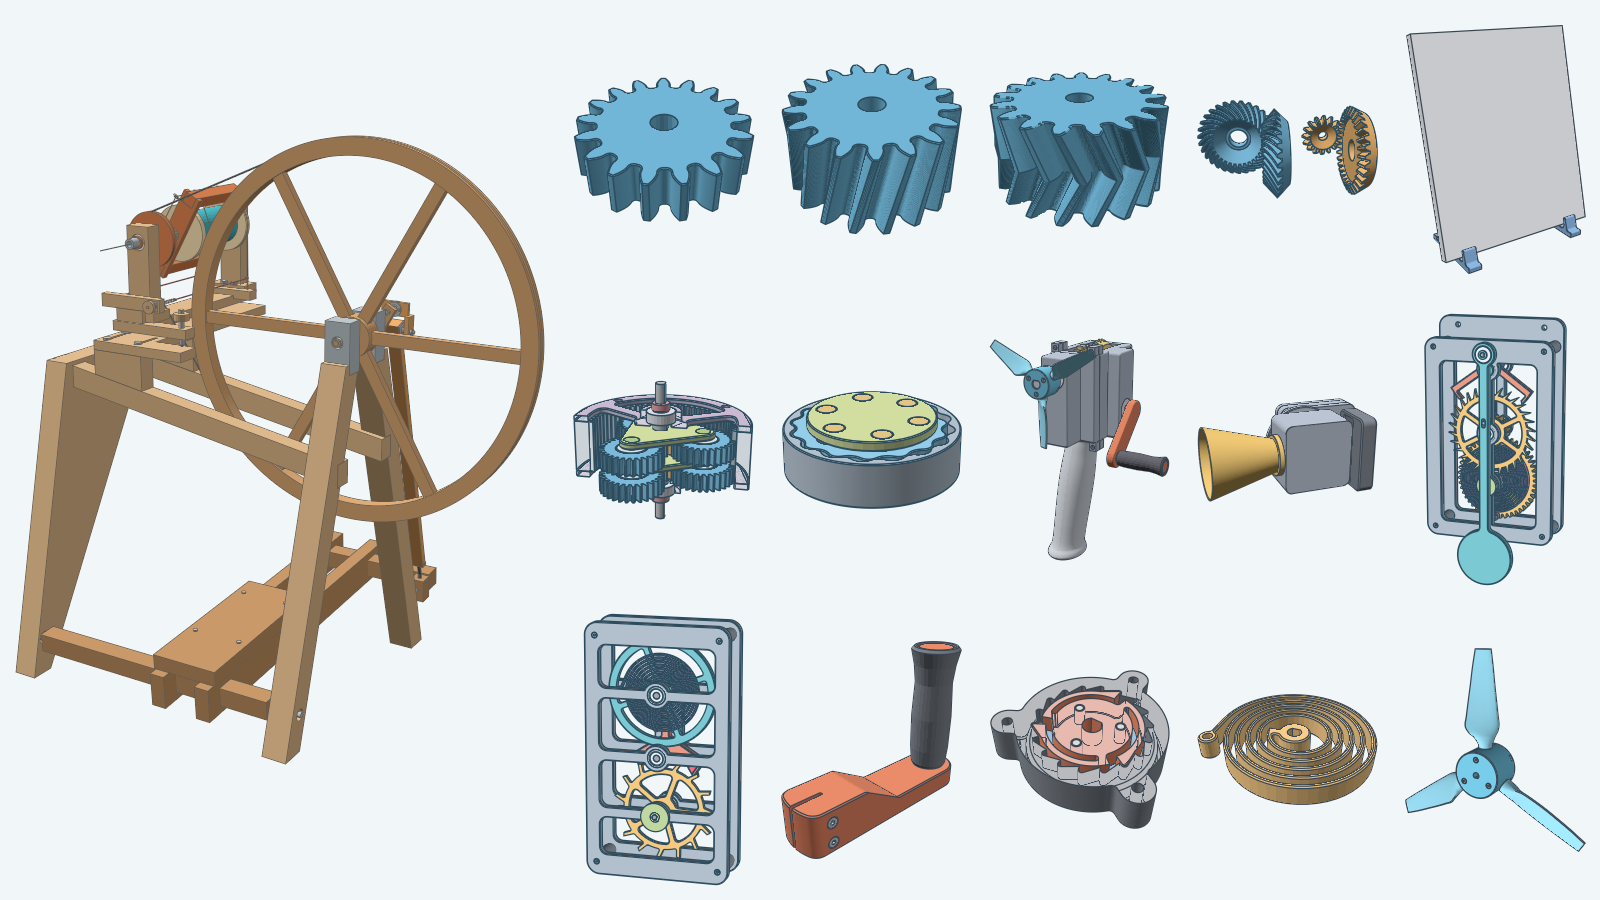
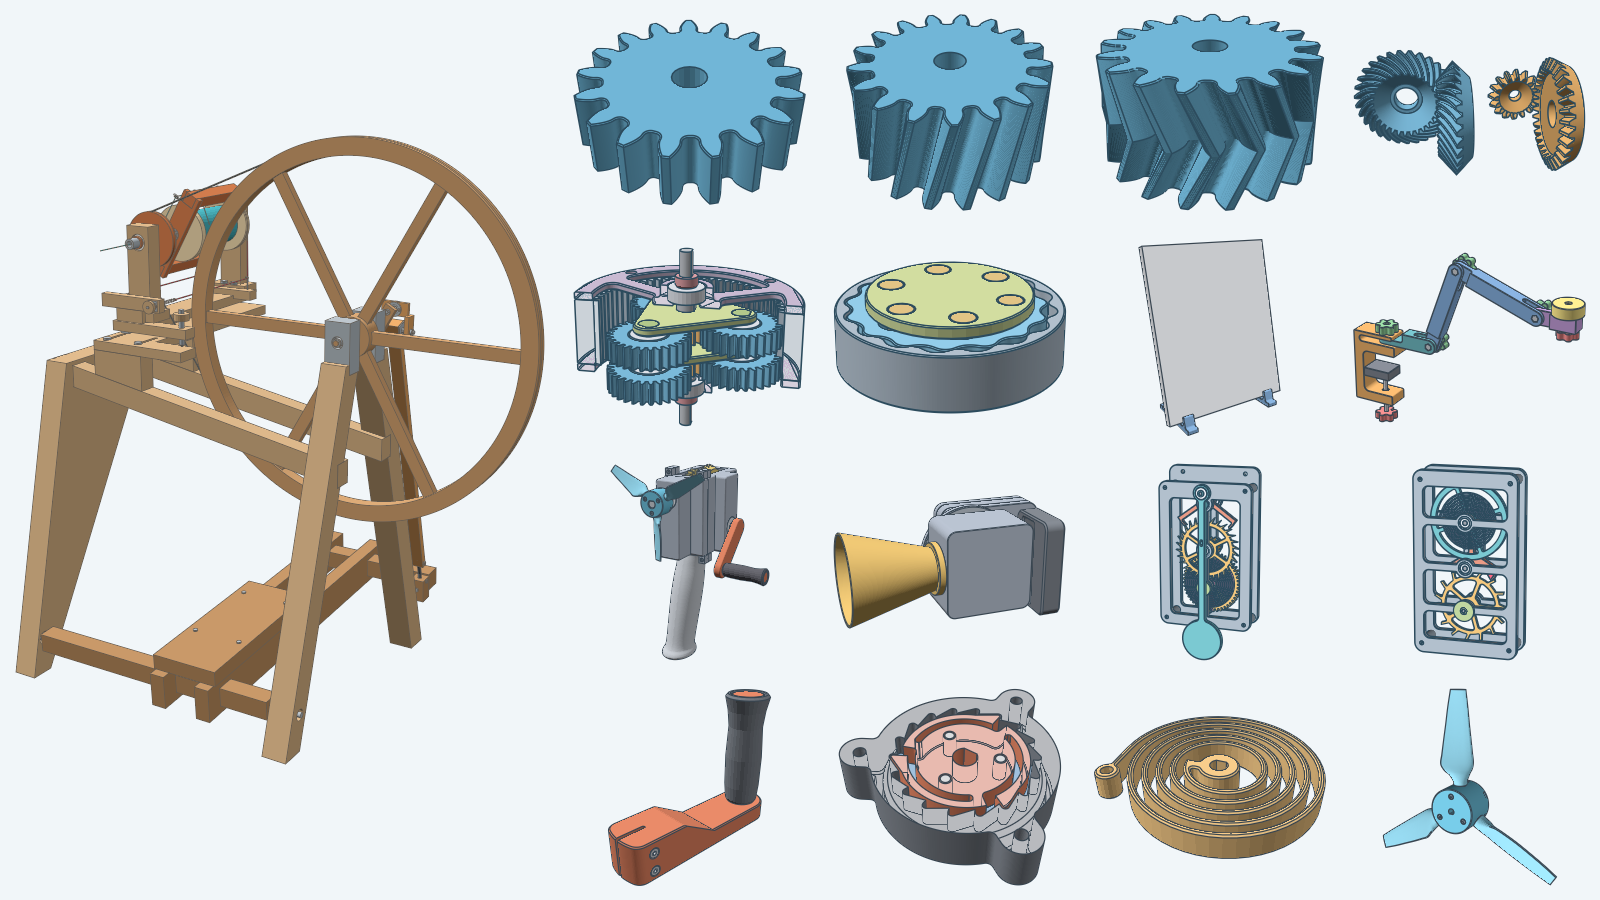
add clamp arm to gallery hero and CI

diff --git a/tools/render/gallery.go b/tools/render/gallery.go
@@ -24,28 +24,29 @@ type galleryTile struct {
 	cell  image.Rectangle
 }
 
-// galleryTiles puts the spinning wheel in a tall cell on the left and the other fifteen models in a grid beside it:
-// the three involute gears, the bevel gear pair and the plaque stand across the top in five columns, then two rows of
-// five. The planetary
-// gearbox, cycloidal drive, hand-crank fan, hand-crank siren and escapement fill the middle row, and the Swiss lever
-// escapement, crank handle, one-way clutch, spiral spring and turbine fan the bottom row.
+// galleryTiles puts the spinning wheel in a tall cell on the left and the other sixteen models in a grid of four
+// columns by four rows beside it (260 × 225 pixel cells), filled row by row. The top row holds the spur, helical,
+// herringbone and bevel gears. The second row holds the planetary gearbox, cycloidal drive, plaque stand and clamp
+// arm. The third row holds the hand-crank fan, hand-crank siren, Graham escapement and Swiss lever escapement. The
+// bottom row holds the crank handle, one-way clutch, spiral spring and turbine fan.
 var galleryTiles = []galleryTile{
 	{"spinningwheel", spinningWheelView("hero"), image.Rect(0, 0, 560, 900)},
-	{"spurgear", spurGearHero, image.Rect(560, 0, 768, 300)},
-	{"helicalgear", helicalGearHero, image.Rect(768, 0, 976, 300)},
-	{"herringbonegear", herringboneGearHero, image.Rect(976, 0, 1184, 300)},
-	{"bevelgear", bevelGearHero, image.Rect(1184, 0, 1392, 300)},
-	{"plaquestand", plaqueStandHero, image.Rect(1392, 0, 1600, 300)},
-	{"planetarygearbox", planetaryGearboxHero, image.Rect(560, 300, 768, 600)},
-	{"cycloidal", cycloidalHero, image.Rect(768, 300, 976, 600)},
-	{"handcrankfan", handCrankFanHero, image.Rect(976, 300, 1184, 600)},
-	{"handcranksiren", handCrankSirenHero, image.Rect(1184, 300, 1392, 600)},
-	{"escapement", escapementHero, image.Rect(1392, 300, 1600, 600)},
-	{"swisslever", swissHero, image.Rect(560, 600, 768, 900)},
-	{"crankhandle", crankHandleHero, image.Rect(768, 600, 976, 900)},
-	{"onewayclutch", oneWayClutchHero, image.Rect(976, 600, 1184, 900)},
-	{"spiralspring", spiralSpringHero, image.Rect(1184, 600, 1392, 900)},
-	{"turbinefan", turbineFanHero, image.Rect(1392, 600, 1600, 900)},
+	{"spurgear", spurGearHero, image.Rect(560, 0, 820, 225)},
+	{"helicalgear", helicalGearHero, image.Rect(820, 0, 1080, 225)},
+	{"herringbonegear", herringboneGearHero, image.Rect(1080, 0, 1340, 225)},
+	{"bevelgear", bevelGearHero, image.Rect(1340, 0, 1600, 225)},
+	{"planetarygearbox", planetaryGearboxHero, image.Rect(560, 225, 820, 450)},
+	{"cycloidal", cycloidalHero, image.Rect(820, 225, 1080, 450)},
+	{"plaquestand", plaqueStandHero, image.Rect(1080, 225, 1340, 450)},
+	{"clamparm", clampArmView("hero"), image.Rect(1340, 225, 1600, 450)},
+	{"handcrankfan", handCrankFanHero, image.Rect(560, 450, 820, 675)},
+	{"handcranksiren", handCrankSirenHero, image.Rect(820, 450, 1080, 675)},
+	{"escapement", escapementHero, image.Rect(1080, 450, 1340, 675)},
+	{"swisslever", swissHero, image.Rect(1340, 450, 1600, 675)},
+	{"crankhandle", crankHandleHero, image.Rect(560, 675, 820, 900)},
+	{"onewayclutch", oneWayClutchHero, image.Rect(820, 675, 1080, 900)},
+	{"spiralspring", spiralSpringHero, image.Rect(1080, 675, 1340, 900)},
+	{"turbinefan", turbineFanHero, image.Rect(1340, 675, 1600, 900)},
 }
 
 const (

diff --git a/scripts/ci/run_tests.py b/scripts/ci/run_tests.py
@@ -439,6 +439,12 @@ def run_onewayclutch() -> None:
     go_test(["./models/onewayclutch", "-timeout", "40m", "-count=1"])
 
 
+def run_clamparm() -> None:
+    """Run every test of the clamp arm and M5 fastener packages: about 4 minutes on a fast machine, so they have their
+    own job instead of the 5 minute PR job."""
+    go_test(["./models/clamparm", "./models/m5bolt", "./models/m5nut", "-timeout", "40m", "-count=1"])
+
+
 def run_fan_variant(variant: str) -> None:
     env = os.environ.copy()
     env["HANDCRANKFAN_FULL"] = "1"
@@ -504,6 +510,9 @@ def main() -> None:
     if suite == "onewayclutch" and not args and mode == "all":
         run_onewayclutch()
         return
+    if suite == "clamparm" and not args and mode == "all":
+        run_clamparm()
+        return
     if suite == "turbinefan" and not args and mode == "all":
         run_turbinefan()
         return
@@ -512,7 +521,7 @@ def main() -> None:
         return
     raise SystemExit(
         "usage: run_tests.py models <pr|full> | bevel <pr|full> <a-h> | wheel <case|rest>"
-        " | siren <default|spike|slots12|slots24> | escapement all | onewayclutch all | turbinefan all | fan <flat-three|steep-three>"
+        " | siren <default|spike|slots12|slots24> | escapement all | onewayclutch all | clamparm all | turbinefan all | fan <flat-three|steep-three>"
     )
 
 

diff --git a/docs/rendering.md b/docs/rendering.md
@@ -77,10 +77,10 @@ part images in `parts/`:
 `go -C tools/render run . -model plaquestand -shot readme -out ../../models/plaquestand/images`.
 
 `clamparm/hero` renders the default pose of the clamp arm from the front, to the right and above, with the frame in orange,
-the swivel in teal, the links in blue, the head in purple, the adapter in yellow and the knobs in green. The `side`,
+the swivel in teal, the links in blue, the head in purple, the adapter in yellow and the knobs in green, the screw knobs in red and the pad in dark grey. The `side`,
 `back` and `top` presets show it from +Y, from behind and above, and from above. `poses` puts the default, a raised
 (`Shoulder` 90, `Elbow` -30, `Wrist` -60) and a folded (`Shoulder` 100, `Elbow` -115, `Wrist` 15) arm side by side along
-X, 40 mm apart. `exploded` pulls each joint's bolt 45 mm out of its -Y face and its nut and knob out of the +Y face,
+X, 40 mm apart. `exploded` pulls the bolts of J2 to J4 45 mm out of their -Y faces and their nuts and knobs out of the +Y faces, moves the J1 bolt out to -Y and the jaw nut out to +Y, lifts the J1 nut and knob along +Z,
 lifts the swivel off the frame, moves link B, the head and the adapter apart along the chain, and sends the pad, the clamp
 screw and its knob down, with no two exploded bounding boxes intersecting. `clamp-section` clips the frame, pad, screw,
 jaw nut and J1 parts at y = 0 and looks from -Y; `joint-section` clips link A, link B and the J3 bolt, nut and knob by
@@ -377,15 +377,16 @@ The `gallery/hero` preset does not include the ball bearing or screw gear.
 
 The `gallery/hero` preset writes the repository's hero image, `docs/images/gallery.png`. It renders the hero
 scenes of the spinning wheel, the spur, helical and herringbone gears, the planetary gearbox, the cycloidal
-drive, the bevel gear pair, the hand-crank fan, the hand-crank siren, the Graham escapement, the Swiss lever escapement, the crank handle, the
-one-way clutch, the spiral spring, the turbine fan and the plaque stand one after another. On a cache miss, it renders each model twice,
+drive, the bevel gear pair, the plaque stand, the clamp arm, the hand-crank fan, the hand-crank siren, the Graham
+escapement, the Swiss lever escapement, the crank handle, the one-way clutch, the spiral spring and the turbine fan
+one after another. On a cache miss, it renders each model twice,
 once to measure the pixels it draws and once at the scale that fits them to a cell of the 1600 × 900 pixel canvas,
 so every model fills its cell alike. The wheel takes a tall cell on the left
-(560 pixels wide). The other fifteen models fill a grid beside it: five columns across the top (208 × 300 pixels each)
-and two rows of five below (208 × 300 pixels each). The three gears, the bevel gear pair and the plaque stand are across the top. The
-planetary gearbox, cycloidal drive, fan, siren and Graham escapement are in the middle, and the Swiss lever escapement,
-crank handle, one-way clutch, spiral spring and turbine fan are across the bottom. Building all sixteen models takes
-several minutes plus the wheel
+(560 pixels wide). The other sixteen models fill a grid of four columns by four rows beside it (260 × 225 pixels per
+cell). The top row holds the spur, helical, herringbone and bevel gears. The second row holds the planetary gearbox,
+cycloidal drive, plaque stand and clamp arm. The third row holds the hand-crank fan, hand-crank siren, Graham
+escapement and Swiss lever escapement. The bottom row holds the crank handle, one-way clutch, spiral spring and
+turbine fan. Building all seventeen models takes several minutes plus the wheel
 build:
 
 ```sh

diff --git a/README.md b/README.md
@@ -1,6 +1,6 @@
 # decad gallery
 
-![A spinning wheel, a hand-crank fan, a hand-crank siren, a Graham escapement, a Swiss lever escapement, a crank handle, a one-way clutch, a spiral spring, a turbine fan and a plaque stand beside spur, helical, herringbone, planetary, cycloidal and bevel gears](docs/images/gallery.png)
+![A spinning wheel, a hand-crank fan, a hand-crank siren, a Graham escapement, a Swiss lever escapement, a crank handle, a one-way clutch, a spiral spring, a turbine fan, a plaque stand and a clamp arm beside spur, helical, herringbone, planetary, cycloidal and bevel gears](docs/images/gallery.png)
 
 A gallery of parametric 3D shapes, patterns, and assemblies built with
 [decad](https://github.com/lestrrat-3d/decad). Each model is a solid body whose dimensions come from
